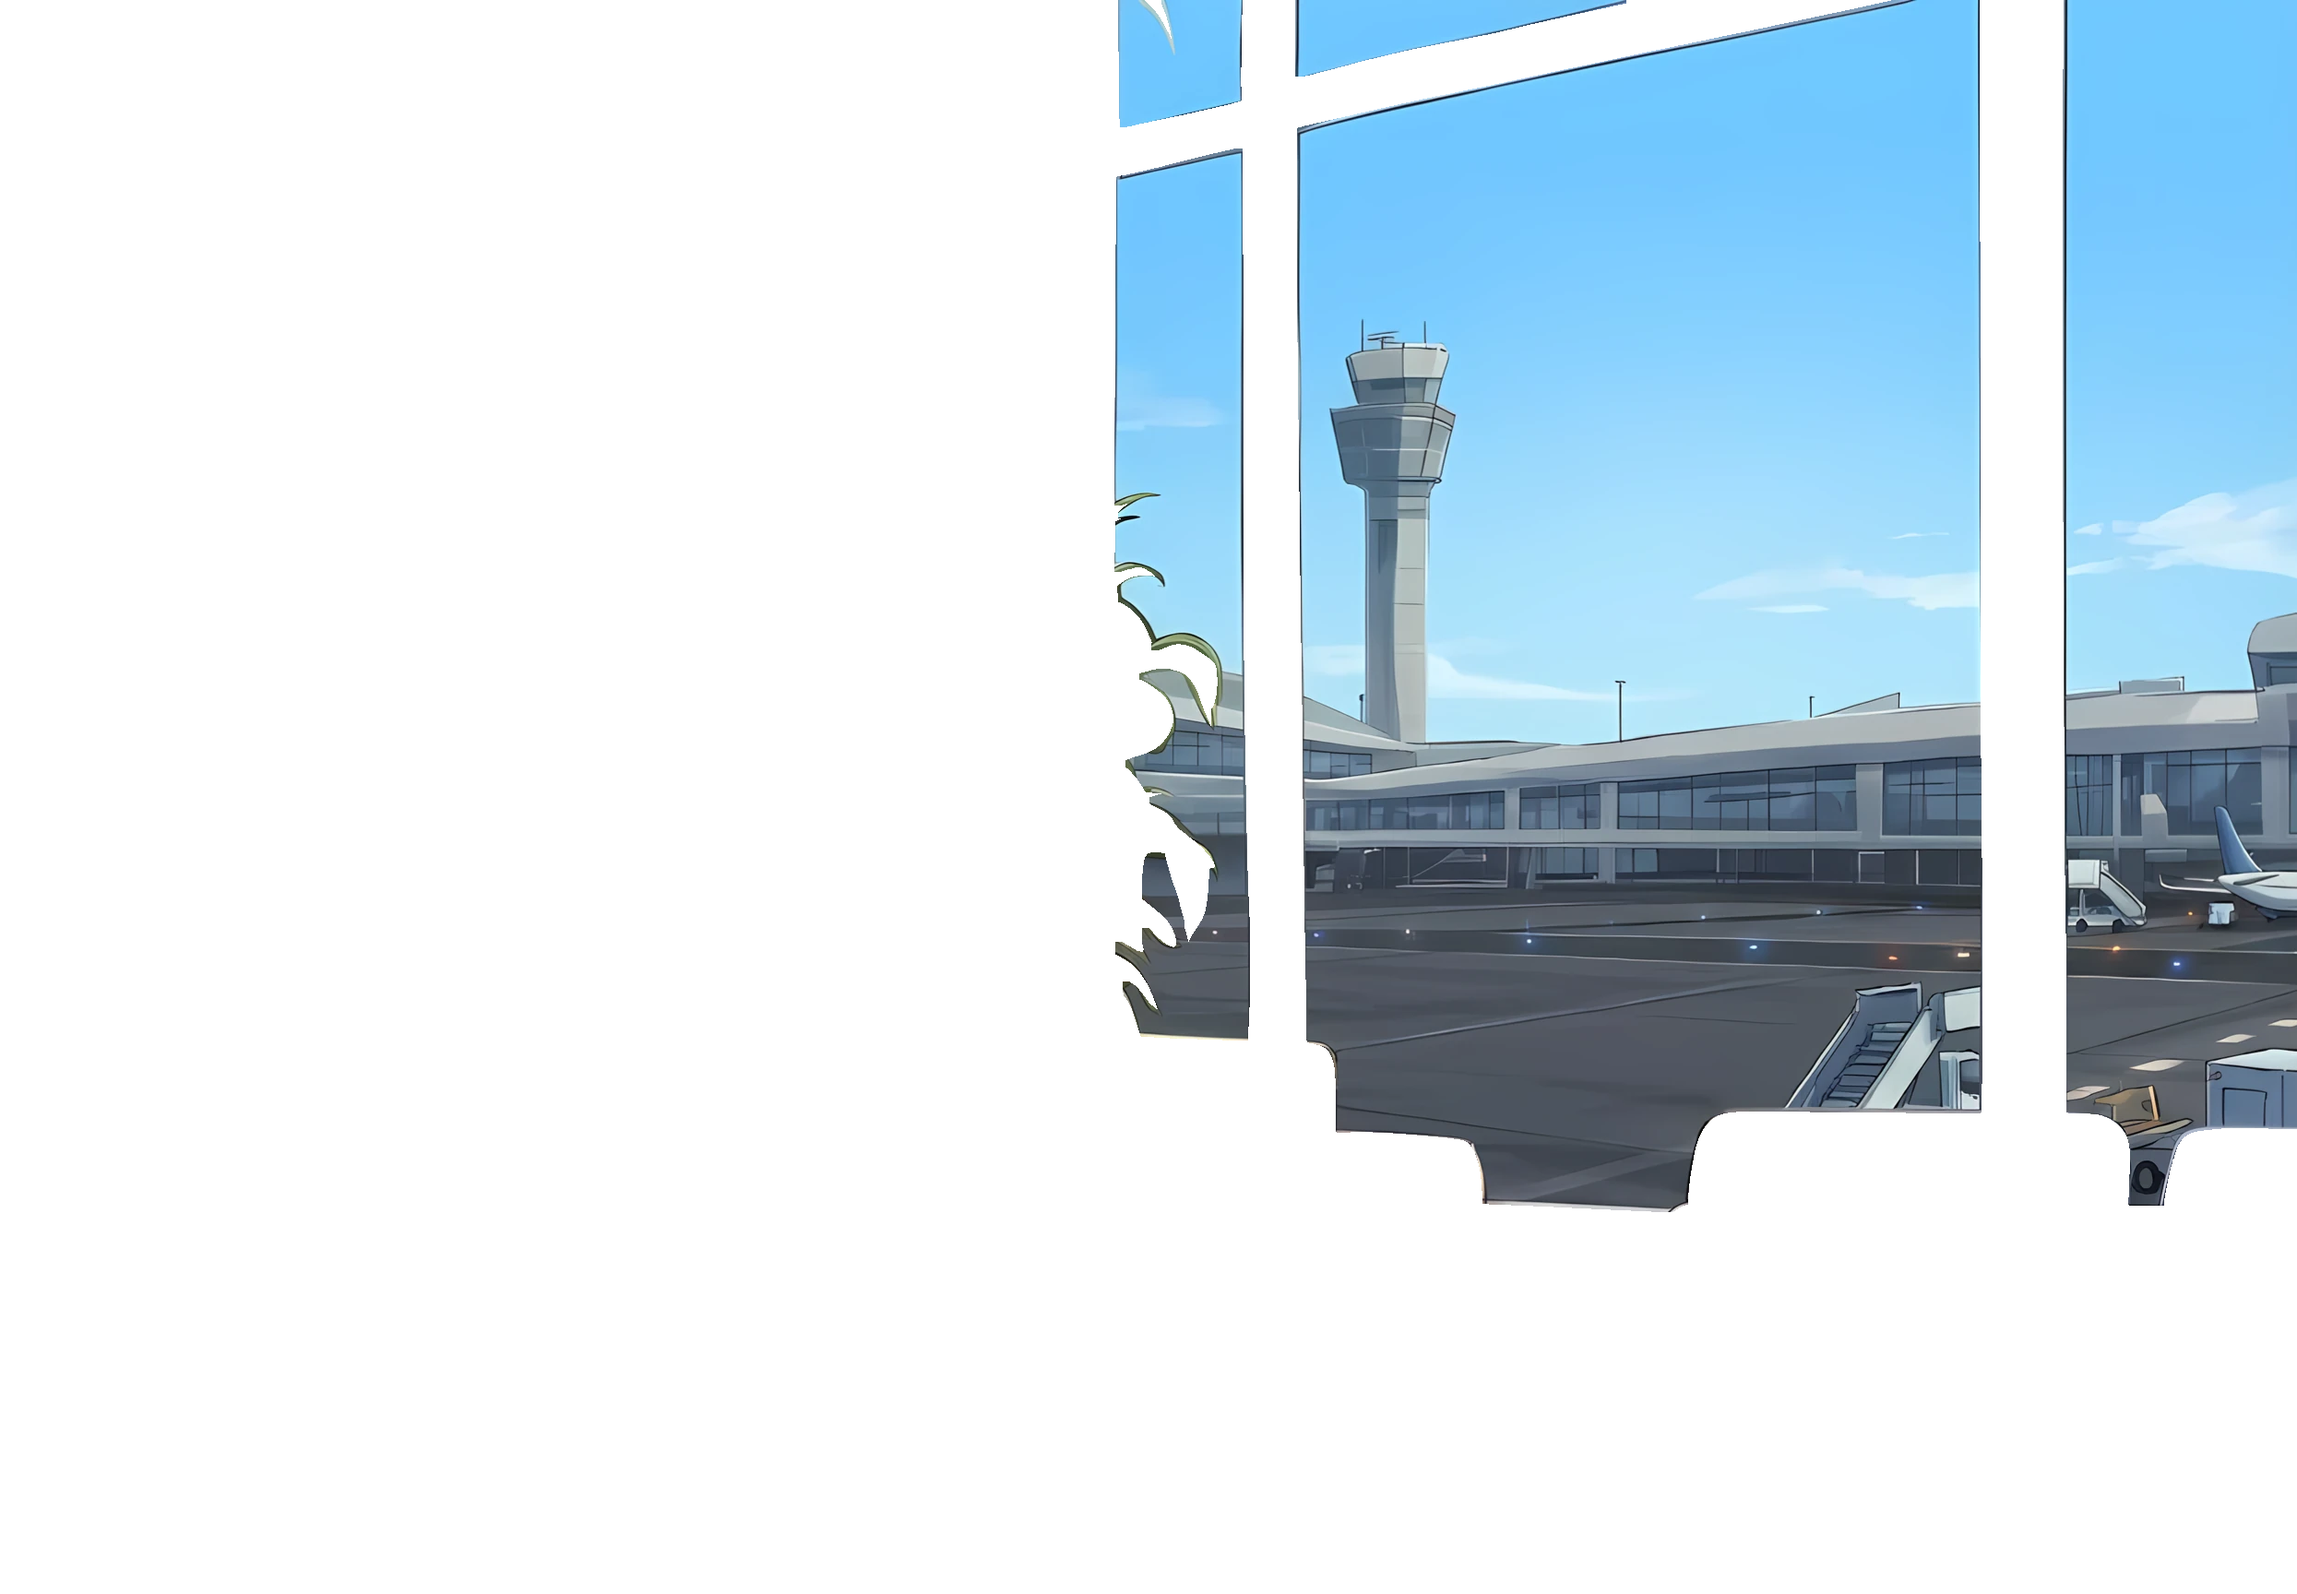
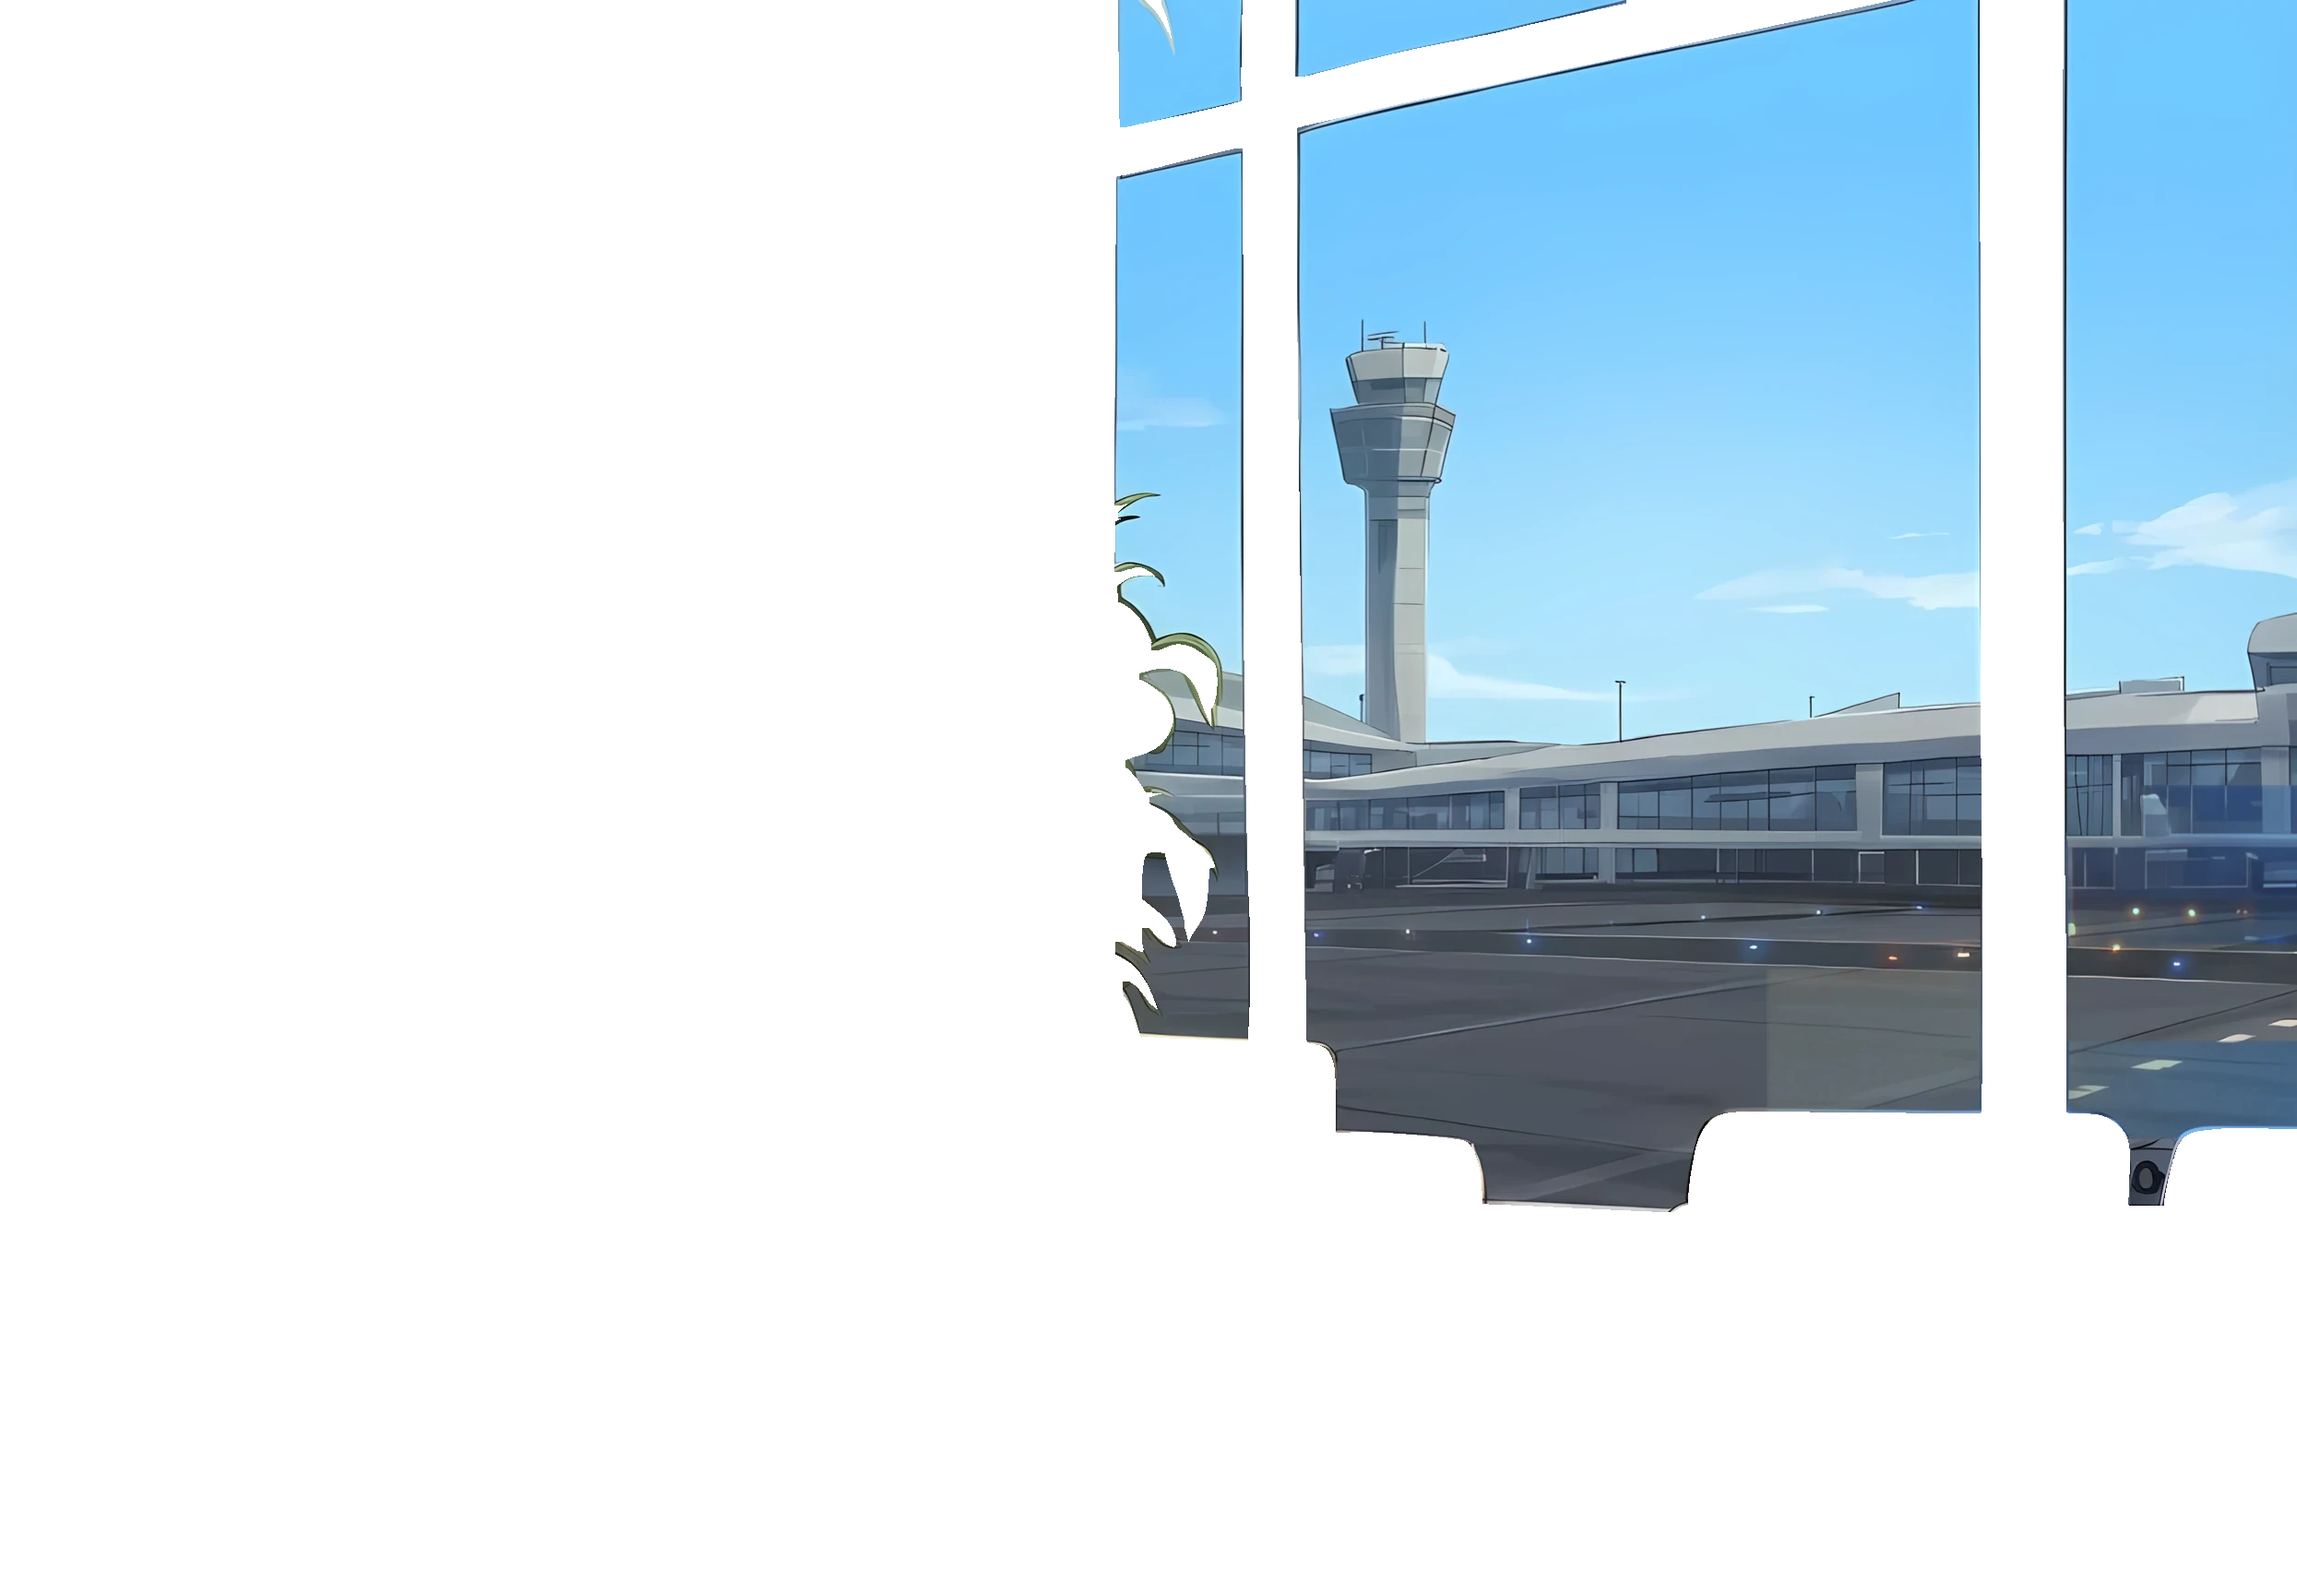
lounge: board rows on the painted lines, larger plane, day view without stairs truck
Board text now sits between the panel's detected row lines (five rows,
perspective included) instead of a guessed quad that started a row low.
The taxiing plane is bigger and nearer, its wheels hidden by the sofa backs.
The stairs trucks and the baked plane in the daytime window view are replaced
with colour-matched pixels from the golden view.

Claude-Session: https://claude.ai/code/session_012VFbGgDXK9mz8qoLwWp9w1

Changed region(s): [[0.8968, 0.4688, 1.0, 0.5938], [0.7731, 0.5938, 0.8659, 0.7188], [0.8968, 0.6562, 1.0, 0.7188]]

diff --git a/ui/web/lounge/renderer.js b/ui/web/lounge/renderer.js
@@ -160,11 +160,11 @@
       const b = scene.board;
       if (!rows || !rows.length) return;
       const lerp = (p, q, t) => [p[0] + (q[0] - p[0]) * t, p[1] + (q[1] - p[1]) * t];
-      const q = b.quad || [[b.x, b.y], [b.x + b.w, b.y], [b.x + b.w, b.y + b.h], [b.x, b.y + b.h]];
-      const [TL, TR, BR, BL] = q;
       const n = b.rows;
+      // Row i lies between boundary lines i and i+1: the painted ones, or an even split of the box.
+      const line = i => (b.lines ? b.lines[i] : [lerp([b.x, b.y], [b.x, b.y + b.h], i / n), lerp([b.x + b.w, b.y], [b.x + b.w, b.y + b.h], i / n)]);
       rows.slice(0, n).forEach((row, i) => {
-        const L0 = lerp(TL, BL, i / n), R0 = lerp(TR, BR, i / n), L1 = lerp(TL, BL, (i + 1) / n);
+        const [L0, R0] = line(i), L1 = line(i + 1)[0];
         const w = Math.hypot(R0[0] - L0[0], R0[1] - L0[1]), h = Math.hypot(L1[0] - L0[0], L1[1] - L0[1]);
         target.save();
         target.transform((R0[0] - L0[0]) / w, (R0[1] - L0[1]) / w, (L1[0] - L0[0]) / h, (L1[1] - L0[1]) / h, L0[0], L0[1]);

diff --git a/art/tools/build_lounge_scene.py b/art/tools/build_lounge_scene.py
@@ -33,8 +33,9 @@ SCENE = {
     'charScale': 1.25,
     'characters': ['tiger', 'rabbit', 'turtle', 'penguin'],
     'window': {'x': 700, 'y': 0, 'w': 740, 'h': 700},
-    'board': {'x': 62, 'y': 161, 'w': 518, 'h': 334, 'rows': 4,
-              'quad': [[62, 161], [580, 258], [580, 495], [62, 412]]},     # painted panel: TL, TR, BR, BL
+    # painted row boundaries of the panel, top to bottom, each [[x_left, y], [x_right, y]]
+    'board': {'x': 64, 'y': 161, 'w': 516, 'h': 338, 'rows': 5,
+              'lines': [[[64, 160.9], [580, 258.9]], [[64, 222.0], [580, 308.7]], [[64, 282.1], [580, 359.5]], [[64, 343.2], [580, 413.4]], [[64, 406.3], [580, 465.1]], [[64, 449.4], [580, 497.9]]]},
     'seats': [{'id': 's0', 'x': 430, 'y': 995}, {'id': 's1', 'x': 665, 'y': 995},
               {'id': 's2', 'x': 1145, 'y': 1050}, {'id': 's3', 'x': 1335, 'y': 1050}],
     'entries': {'left': -320, 'right': 1760},
@@ -42,7 +43,7 @@ SCENE = {
     'floorLight': None,
     # a plane taxis past the window every `period` seconds, taking `duration` seconds
     'planes': {'right': 'bg/plane_right.webp', 'left': 'bg/plane_left.webp',
-               'y': 655, 'height': 105, 'from': 560, 'to': 1700, 'period': 150, 'duration': 55},
+               'y': 712, 'height': 170, 'from': 520, 'to': 1760, 'period': 150, 'duration': 70},
 }
 
 

diff --git a/ui/tools/lounge_check_assets.py b/ui/tools/lounge_check_assets.py
@@ -129,6 +129,10 @@ def check_scene(root, rep):
         o = scene.get(key)
         if not isinstance(o, dict) or not all(is_num(o.get(f)) for f in fields):
             rep.err('schema', 'scene.json %s needs numeric %s' % (key, ', '.join(fields)))
+    bl = (scene.get('board') or {}).get('lines')
+    if bl is not None and not (isinstance(bl, list) and len(bl) == (scene['board'].get('rows') or 0) + 1 and all(
+            isinstance(l, list) and len(l) == 2 and all(isinstance(p, list) and len(p) == 2 and all(is_num(v) for v in p) for p in l) for l in bl)):
+        rep.err('schema', 'scene.json board.lines must hold rows + 1 lines of [[x, y], [x, y]]')
     seats = scene.get('seats')
     if not isinstance(seats, list) or not seats or not all(
             isinstance(s, dict) and isinstance(s.get('id'), str) and is_num(s.get('x')) and ('y' not in s or is_num(s['y'])) for s in seats):

diff --git a/docs/LOUNGE_SCENE_DESIGN.md b/docs/LOUNGE_SCENE_DESIGN.md
@@ -26,7 +26,7 @@
 - 계약에 추가된 항목: `size`의 높이는 그림에 따름(600~1400), `charScale`(캐릭터 전체 배율), 좌석별 발 기준선 `seats[].y`(걷는 캐릭터는 `baselineY`, 돌아서는 동안 둘 사이를 미끄러지듯 이동), `floorLight: null` 허용(바닥이 안 보이는 구도), 레이어의 `cutFrom`(다른 레이어에서 같은 마스크로 잘라 낸 레이어. 선화 일치 검사를 생략).
 - 소파 앞면(`sofaFront`, mid 그룹)은 실내 그림에서 다각형 마스크로 잘라 낸 것으로, 앉은 캐릭터의 하반신을 가린다.
 - 하늘은 그림에 칠해진 하늘을 쓴다(창밖 레이어가 불투명). 코드 하늘·해·달은 그 뒤에 가려진다. 계절 레이어는 아직 없다.
-- 안내판은 그림 속 패널 네 꼭짓점(`board.quad`, 왼쪽 위·오른쪽 위·오른쪽 아래·왼쪽 아래)을 따라 줄마다 기울여 그린다. 줄 수는 4.
+- 안내판은 그림 속 패널에 그려진 줄 경계선(`board.lines`, 위에서 아래로 rows+1개, 각 [[왼쪽 x, y], [오른쪽 x, y]])을 따라 줄마다 기울여 그린다. 줄 수는 5.
 - 비행기: 창밖 레이어는 `far` 그룹이고, 그 위에 비행기를 그린 뒤 실내(`back`)를 덮는다. `scene.planes`의 주기(`period`)마다 `duration`초 동안 한 대가 지나가며 방향은 번갈아 바뀐다. 장면 시간 기준이라 결정적이다. 그림은 `art/cutouts/plane_*.png`에서 만든다.
 
 ---
